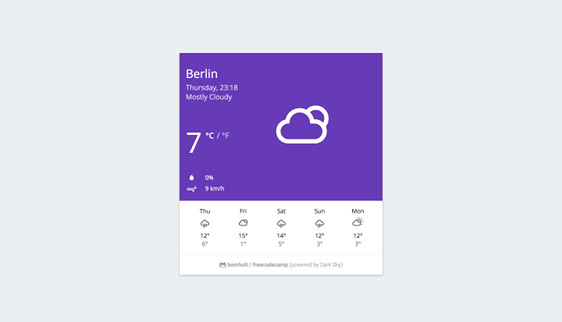
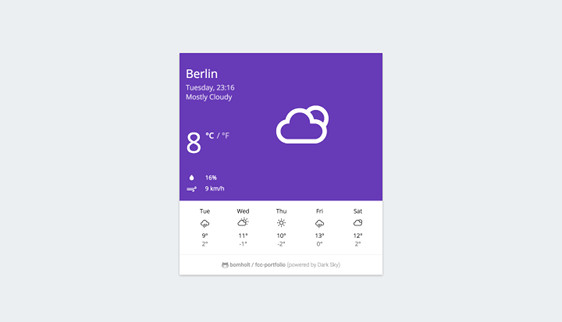
update Local Weather

diff --git a/intermediate_front_end_development_projects/local_weather/style.sass b/intermediate_front_end_development_projects/local_weather/style.sass
@@ -1,5 +1,4 @@
-@import url(https://fonts.googleapis.com/css?family=Open+Sans:400,600)
-@import url(https://fonts.googleapis.com/css?family=Roboto:300,500)
+@import url("https://fonts.googleapis.com/css?family=Open+Sans:400,600|Roboto:300,500")
 
 @keyframes blink
   0%
@@ -18,14 +17,14 @@ html, body
 
 a:focus, a:hover, a:visited
   text-decoration: none
-  
+
 .container
   background-color: #eceff1
   padding-top: calc(50vh - 285px)
-  
+
 .col-xs-12
   padding: 0
-  
+
 .card
   background-clip: padding-box
   border-radius: 2px 2px
@@ -36,14 +35,14 @@ a:focus, a:hover, a:visited
   font-weight: 400
   margin: 8px auto 16px
   max-width: 520px
-  
+
 .card-current
   background-color: #009688
   color: #fff
   padding: 16px
-  
+
   #location
-    
+
     span
       animation-name: blink
       animation-duration: 1.4s
@@ -54,30 +53,33 @@ a:focus, a:hover, a:visited
         animation-delay: 0.2s
       &:nth-child(3)
         animation-delay: 0.4s
-      
+
   #time, #summary
     color: rgba(255,255,255,0.8)
     margin: 5px 0
-    
+
   .temp
     display: inline-block
     padding: 10% 0
-    
+
     #temperature
       display: inline-block
       font-size: 64px
       line-height: 56px
       vertical-align: middle
-      
+      @media (min-width: 375px)
+        font-size: 72px
+        line-height: 60px
+
     #unit1, #unit2
       display: inline-block
       font-size: 20px
       vertical-align: top
-      
+
     #unit1
       font-weight: 600
       padding-left: 6px
-      
+
     #unit2
       color: rgba(255,255,255,0.7)
       font-weight: 400
@@ -85,69 +87,75 @@ a:focus, a:hover, a:visited
       &:hover
         cursor: pointer
         text-decoration: none
-      
+
   #icon
     display: inline-block
     font-size: 96px
     padding-left: 8%
-    
+    @media (min-width: 375px)
+      font-size: 112px
+      padding-left: 16%
+    @media (min-width: 520px)
+      font-size: 120px
+      padding-left: 24%
+
   .precip
     font-size: 15px
-    
+
     .precip-icon
       display: inline-block
       font-size: 20px
       text-align: center
       vertical-align: middle
       width: 30px
-      
+
     #precipitation
       display: inline-block
       padding-left: 16px
-      
+
   .wind
     font-size: 15px
-    
+
     .wind-icon
       display: inline-block
       font-size: 20px
       text-align: center
       vertical-align: middle
       width: 30px
-    
+
     #windspeed
       display: inline-block
       padding-left: 16px
-        
+
 #daybyday
   background-color: #fff
   padding: 16px
   text-align: center
-  
+
   #carousel
     color: #212121
     font-size: 15px
-     
+
     div i
       color: #424242
       font-size: 20px
-      
+
     .tempMax p
       margin: 10px 0 0 0
       display: inline-block
-      
+
     .tempMax span
       display: inline-block
-      
+
     .tempMin p
       color: #757575
       display: inline-block
       margin: 0
-      
+
     .tempMin span
       color: #757575
       display: inline-block
-  
+
 #footer
   background-color: #fff
   border-top: 1px solid rgba(160, 160, 160, 0.2)
@@ -155,34 +163,13 @@ a:focus, a:hover, a:visited
   padding: 16px
   line-height: 20px
   text-align: center
-  
+
   a
     color: #9e9e9e
     font-family: "Roboto", sans-serif
     font-weight: 300
     &:hover
       text-decoration: none
-    
+
   .bomholt
     font-weight: 500
-    
-@media (min-width: 375px)
-  
-  .card
-    
-    .temp #temperature
-      font-size: 72px
-      line-height: 60px
-    
-    #icon
-      font-size: 112px
-      padding-left: 16%
-    
-@media (min-width: 520px)
-  
-  .card
-    
-    #icon
-      font-size: 120px
-      padding-left: 24%
-    

diff --git a/intermediate_front_end_development_projects/local_weather/style.css b/intermediate_front_end_development_projects/local_weather/style.css
@@ -1,5 +1,4 @@
-@import url(https://fonts.googleapis.com/css?family=Open+Sans:400,600);
-@import url(https://fonts.googleapis.com/css?family=Roboto:300,500);
+@import url("https://fonts.googleapis.com/css?family=Open+Sans:400,600|Roboto:300,500");
 @-webkit-keyframes blink {
   0% {
     opacity: 0.6;
@@ -91,6 +90,12 @@ a:focus, a:hover, a:visited {
   line-height: 56px;
   vertical-align: middle;
 }
+@media (min-width: 375px) {
+  .card-current .temp #temperature {
+    font-size: 72px;
+    line-height: 60px;
+  }
+}
 .card-current .temp #unit1, .card-current .temp #unit2 {
   display: inline-block;
   font-size: 20px;
@@ -113,6 +118,18 @@ a:focus, a:hover, a:visited {
   display: inline-block;
   font-size: 96px;
   padding-left: 8%;
+}
+@media (min-width: 375px) {
+  .card-current #icon {
+    font-size: 112px;
+    padding-left: 16%;
+  }
+}
+@media (min-width: 520px) {
+  .card-current #icon {
+    font-size: 120px;
+    padding-left: 24%;
+  }
 }
 .card-current .precip {
   font-size: 15px;
@@ -189,20 +206,4 @@ a:focus, a:hover, a:visited {
 }
 #footer .bomholt {
   font-weight: 500;
-}
-@media (min-width: 375px) {
-  .card .temp #temperature {
-    font-size: 72px;
-    line-height: 60px;
-  }
-  .card #icon {
-    font-size: 112px;
-    padding-left: 16%;
-  }
-}
-@media (min-width: 520px) {
-  .card #icon {
-    font-size: 120px;
-    padding-left: 24%;
-  }
 }

diff --git a/intermediate_front_end_development_projects/local_weather/index.html b/intermediate_front_end_development_projects/local_weather/index.html
@@ -4,7 +4,7 @@
   <meta charset="UTF-8">
   <title>Local Weather</title>
   <meta name="viewport" content="width=device-width, initial-scale=1, maximum-scale=1, user-scalable=no">
-  <link rel="stylesheet" href="https://rawgit.com/bomholt/freecodecamp/master/_assets/css/font-awesome.min.css">
+  <link rel="stylesheet" href="https://rawgit.com/bomholt/fcc-portfolio/master/_assets/css/font-awesome.min.css">
   <link rel="stylesheet prefetch" href="https://cdn.jsdelivr.net/bootstrap/3.3.6/css/bootstrap.min.css">
   <link rel="stylesheet prefetch" href="https://erikflowers.github.io/weather-icons/css/weather-icons.min.css">
   <link rel="stylesheet prefetch" href="https://cdn.jsdelivr.net/jquery.owlcarousel/1.3.2/owl.carousel.min.css">
@@ -125,7 +125,7 @@
             </div>
           </div>
           <div id="footer">
-            <a href="https://github.com/bomholt/freecodecamp" class="bomholt" target="_blank" rel="noopener noreferrer"><i class="fa fa-github-alt fa-lg"></i> bomholt / freecodecamp</a>
+            <a href="https://github.com/bomholt/fcc-portfolio" class="bomholt" target="_blank" rel="noopener noreferrer"><i class="fa fa-github-alt fa-lg"></i> bomholt / fcc-portfolio</a>
             <a href="https://darksky.net/poweredby/" target="_blank" rel="noopener noreferrer" class="hidden-xs">(powered by Dark Sky)</a>
           </div>
         </div>
